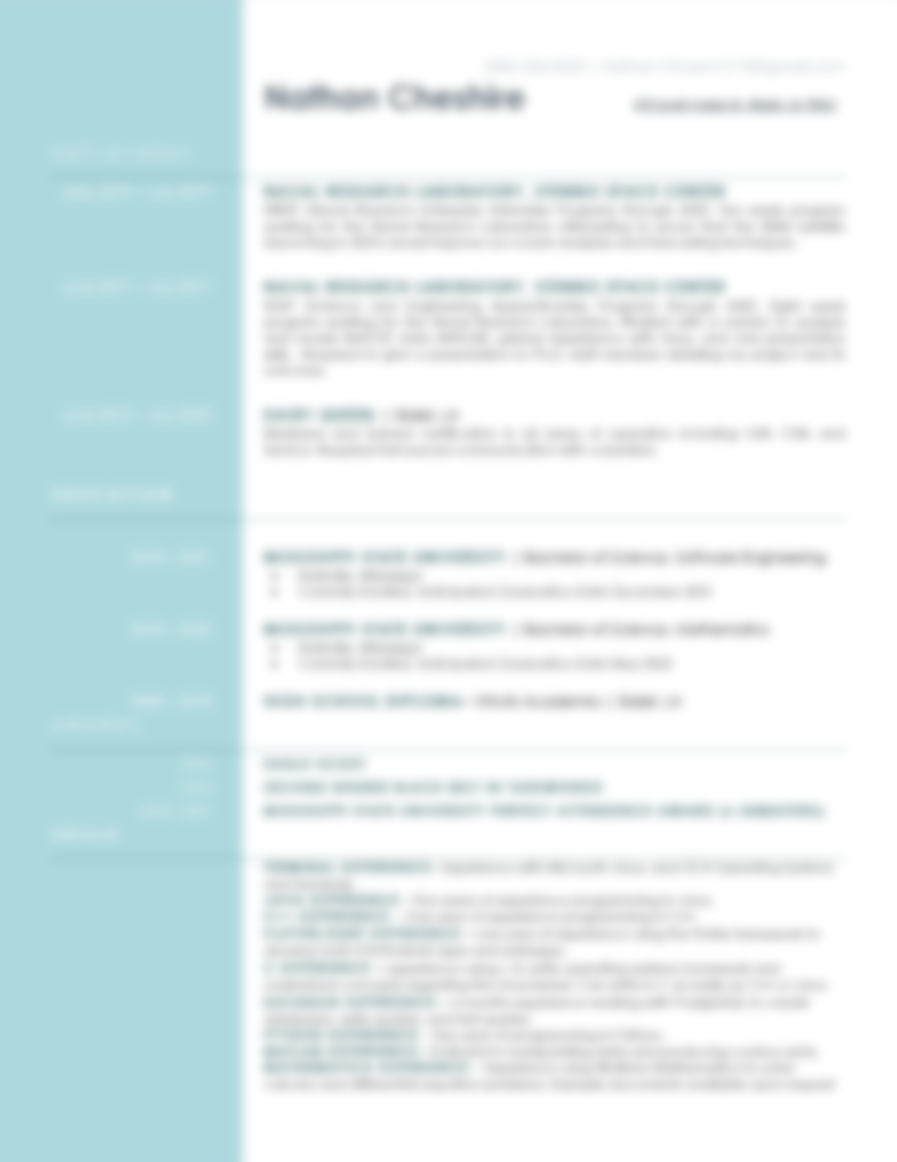
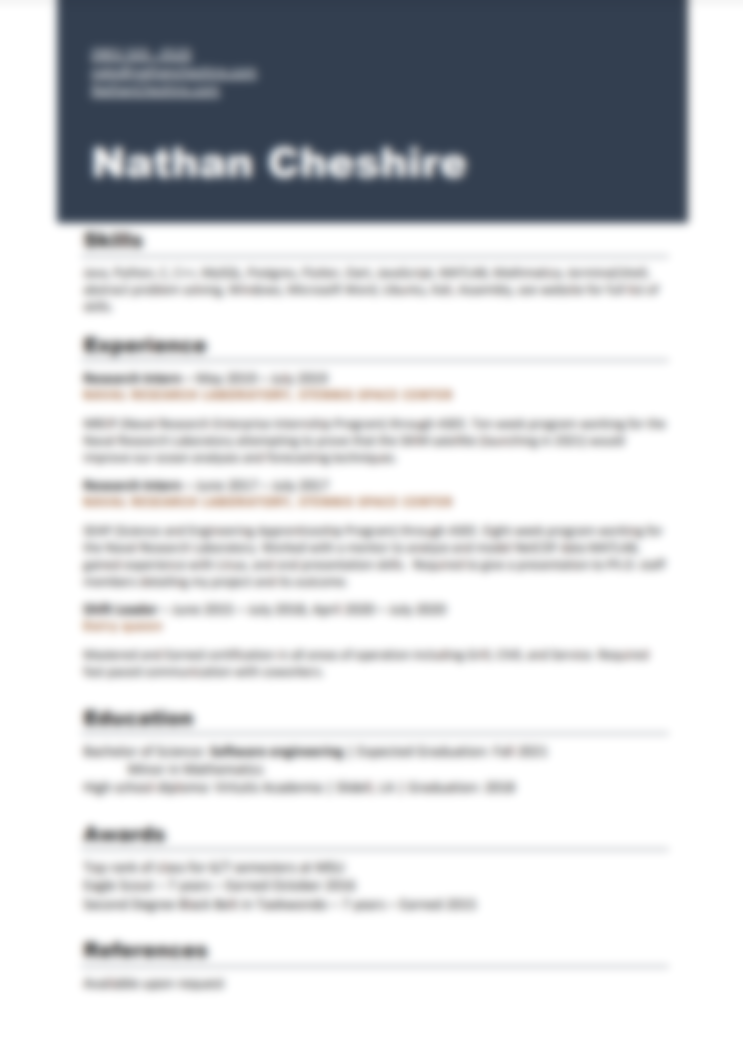
update resume picture and link

diff --git a/lib/widgets/resume_widget.dart b/lib/widgets/resume_widget.dart
@@ -70,7 +70,7 @@ class ResumeSection extends StatelessWidget {
                           padding: const EdgeInsets.only(top: 40),
                           child: OutlinedButton(
                             onPressed: () {
-                              _launchInBrowser("https://docs.google.com/document/d/1m03d0rrNp1dg70ERiEOsSB_jCzSTiYuV/edit?usp=sharing&ouid=106036439461732713867&rtpof=true&sd=true");
+                              _launchInBrowser("https://drive.google.com/file/d/1taIQtAF9YqsVOj7x8Q_wnWd7uJOVsSc1/view?usp=sharing");
                             },
                             child: Padding(
                               padding: const EdgeInsets.all(10.0),
